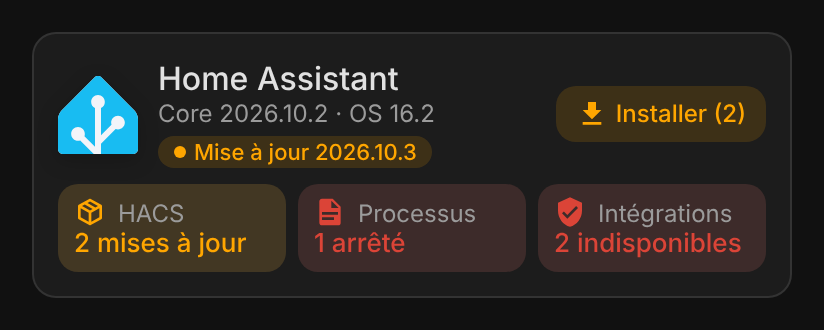
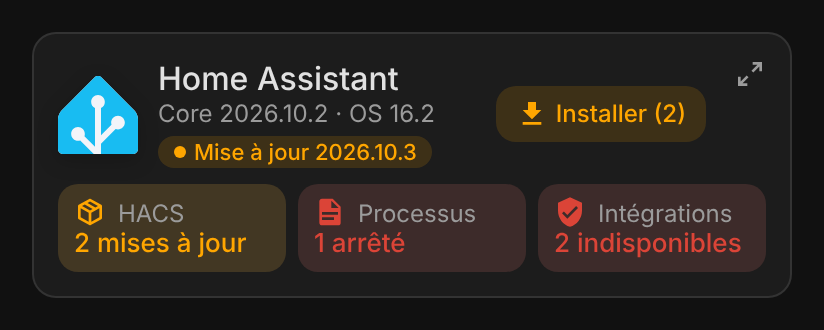
Status card: zoom button showing the full card (#23)
## Summary
- Status card: a small round button at the far right of the header
(`mdi:arrow-expand`, "Show the full card" / "Afficher la carte
complète") switches the card to the full System Monitor card content,
with the same config (gauges, uptime/load/IP, network, storage,
processes, HACS and integrations lists, status row). It becomes
`mdi:arrow-collapse` ("Back to the compact view" / "Revenir à la vue
compacte") to go back. The Home Assistant logo stays on the left.
- A click anywhere outside the card (document capture listener added in
`connectedCallback`, removed in `disconnectedCallback`) brings the
status view back; clicks inside the card, its confirmation overlay or a
dialog opened from it (`ha-more-info-dialog`, `ha-dialog`, `dialog`) do
not, and it never folds while the install confirmation is open.
- The button stops propagation; from the keyboard (`detail === 0`) the
new button gets the focus back.
- `SystemMonitorStatusCard` now extends `SystemMonitorCard`: the zoomed
view is the full card's own `_render()`, no duplicated markup (jscpd: 0
clones). `getCardSize` / `getGridOptions` follow the zoomed state.
- New `zoom` option (default `true`) in the visual editor with EN/FR
label and helper, not written to YAML at its default.
- README, CHANGELOG (1.15.0), version bump, tests, screenshots.

## Screenshots
| Status | Zoomed in (light) | Zoomed in (dark, French) |
|---|---|---|
|
[…]

Changed region(s): [[0.5765, 0.2121, 0.9405, 0.4545], [0.9102, 0.1818, 0.9405, 0.2121]]

diff --git a/src/system-monitor-card.js b/src/system-monitor-card.js
@@ -33,6 +33,9 @@ const ICONS = {
   download: "M5,20H19V18H5M19,9H15V3H9V9H5L12,16L19,9Z",
   watchdog: "M10,17L6,13L7.41,11.59L10,14.17L16.59,7.58L18,9M12,1L3,5V11C3,16.55 6.84,21.74 12,23C17.16,21.74 21,16.55 21,11V5L12,1Z",
   chevron: "M7.41,8.58L12,13.17L16.59,8.58L18,10L12,16L6,10L7.41,8.58Z",
+  // mdi:arrow-expand and mdi:arrow-collapse, for the status card's zoom button.
+  expand: "M10,21V19H6.41L10.91,14.5L9.5,13.09L5,17.59V14H3V21H10M14.5,10.91L19,6.41V10H21V3H14V5H17.59L13.09,9.5L14.5,10.91Z",
+  collapse: "M19.5,3.09L15,7.59V4H13V11H20V9H16.41L20.91,4.5L19.5,3.09M4,13V15H7.59L3.09,19.5L4.5,20.91L9,16.41V20H11V13H4Z",
   // Fallbacks per HACS category when no logo can be loaded.
   integration: "M22,13.5C22,15.26 20.7,16.72 19,16.96V20A2,2 0 0,1 17,22H13.2V21.7A2.7,2.7 0 0,0 10.5,19C9,19 7.8,20.21 7.8,21.7V22H4A2,2 0 0,1 2,20V16.2H2.3C3.79,16.2 5,15 5,13.5C5,12 3.79,10.8 2.3,10.8H2V7A2,2 0 0,1 4,5H7.04C7.28,3.3 8.74,2 10.5,2C12.26,2 13.72,3.3 13.96,5H17A2,2 0 0,1 19,7V10.04C20.7,10.28 22,11.74 22,13.5M17,15H18.5A1.5,1.5 0 0,0 20,13.5A1.5,1.5 0 0,0 18.5,12H17V7H12V5.5A1.5,1.5 0 0,0 10.5,4A1.5,1.5 0 0,0 9,5.5V7H4V9.12C5.76,9.8 7,11.5 7,13.5C7,15.5 5.75,17.2 4,17.88V20H6.12C6.8,18.25 8.5,17 10.5,17C12.5,17 14.2,18.25 14.88,20H17V15Z",
   plugin: "M19,5V7H15V5H19M9,5V11H5V5H9M19,13V19H15V13H19M9,17V19H5V17H9M21,3H13V9H21V3M11,3H3V13H11V3M21,11H13V21H21V11M11,15H3V21H11V15Z",
@@ -115,6 +118,8 @@ const STRINGS = {
     wd_last_reload_failed: "Last reload failed: {name} {t}",
     wd_last_check: "Checked {t}",
     wd_open: "Open the integration",
+    zoom_in: "Show the full card",
+    zoom_out: "Back to the compact view",
     // Editor
     title: "Title (optional, defaults to Home Assistant)",
     show_image: "Show Home Assistant logo",
@@ -124,6 +129,8 @@ const STRINGS = {
     show_processes: "Show processes",
     show_hacs: "Show HACS extensions",
     show_watchdog: "Show unavailable integrations (Integration Watchdog)",
+    zoom: "Zoom button",
+    zoom_helper: "Switches the status card to the full card and back",
     interface: "Network interface (optional, all by default)",
     language: "Language",
     lang_auto: "Automatic",
@@ -201,6 +208,8 @@ const STRINGS = {
     wd_last_reload_failed: "Échec du dernier rechargement : {name} {t}",
     wd_last_check: "Vérifié {t}",
     wd_open: "Ouvrir l'intégration",
+    zoom_in: "Afficher la carte complète",
+    zoom_out: "Revenir à la vue compacte",
     title: "Titre (facultatif, Home Assistant par défaut)",
     show_image: "Afficher le logo Home Assistant",
     show_system: "Afficher le système (CPU, RAM, disque, température)",
@@ -209,6 +218,8 @@ const STRINGS = {
     show_processes: "Afficher les processus",
     show_hacs: "Afficher les extensions HACS",
     show_watchdog: "Afficher les intégrations indisponibles (Integration Watchdog)",
+    zoom: "Bouton zoom",
+    zoom_helper: "Bascule la carte de statut en carte complète, et inversement",
     interface: "Interface réseau (facultatif, toutes par défaut)",
     language: "Langue",
     lang_auto: "Automatique",
@@ -697,6 +708,7 @@ class SystemMonitorBase extends HTMLElement {
         run();
         return;
       }
+      if (action?.dataset.action === "zoom") return this._zoomClick(ev);
       if (action) {
         if (action.dataset.action === "hacs") {
           this._hacsOpen = !this._hacsOpen;
@@ -1148,6 +1160,11 @@ const TILES_STYLE = `
   .spin { animation: sm-spin 1s linear infinite; }
   @keyframes sm-spin { to { transform: rotate(360deg); } }
   .err { font-size: 12px; color: var(--sm-crit); }
+  .zoom { all: unset; flex: none; align-self: flex-start; cursor: pointer; width: 24px; height: 24px; margin: -4px -4px 0 0; border-radius: 50%;
+          display: grid; place-items: center; color: var(--secondary-text-color); }
+  .zoom .icon { width: 16px; height: 16px; }
+  .zoom:hover { background: color-mix(in srgb, var(--secondary-text-color) 16%, transparent); color: var(--primary-text-color); }
+  .zoom:focus-visible { outline: 2px solid var(--sm-blue); outline-offset: 1px; }
 `;
 
 const FULL_STYLE = `
@@ -1686,29 +1703,78 @@ const STATUS_STYLE = `
   .err { padding: 0 12px 12px; }
 `;
 
+/** A click inside a dialog (more-info opened from the card, say) is not a click outside the card. */
+const inDialog = (ev) => ev.composedPath().some((n) => ["ha-more-info-dialog", "ha-dialog", "dialog"].includes(n.localName));
+
 /**
  * Minimal card: header (Core / OS versions and update), the overall status tiles and a single
  * button that checks HACS for updates, or installs them when some are pending.
+ * Its zoom button (top right, `zoom: false` removes it) switches it to the full card, with the same
+ * config, and back; a click anywhere outside the card brings it back too.
  */
-class SystemMonitorStatusCard extends SystemMonitorBase {
+class SystemMonitorStatusCard extends SystemMonitorCard {
   static getConfigElement() {
     return document.createElement("system-monitor-status-card-editor");
   }
 
-  static getStubConfig() {
-    return {};
+  constructor() {
+    super();
+    // A click outside the card (or a dialog opened from it) brings it back to the status view,
+    // never while the install confirmation is open.
+    this._onUnzoom = (ev) => {
+      if (this._zoomed && !this._dialog && !ev.composedPath().includes(this) && !inDialog(ev)) this._setZoom(false);
+    };
+  }
+
+  connectedCallback() {
+    // Before the base listener, which closes the confirmation on the same click.
+    document.addEventListener("click", this._onUnzoom, true);
+    super.connectedCallback();
+  }
+
+  disconnectedCallback() {
+    super.disconnectedCallback();
+    document.removeEventListener("click", this._onUnzoom, true);
   }
 
   getCardSize() {
-    return 2;
+    return this._zoomed ? super.getCardSize() : 2;
   }
 
   getGridOptions() {
-    return { columns: 6, min_columns: 6 };
+    return this._zoomed ? super.getGridOptions() : { columns: 6, min_columns: 6 };
+  }
+
+  /** Full card, or back to the status view (its sections folded again). */
+  _setZoom(zoomed) {
+    this._zoomed = zoomed;
+    if (!zoomed) {
+      this._hacsOpen = false;
+      this._hacsQuery = "";
+      this._wdOpen = false;
+      this._procsOpen = false;
+    }
+    this._update();
+  }
+
+  _zoomClick(ev) {
+    ev.stopPropagation(); // no other action of the header
+    this._setZoom(!this._zoomed);
+    // Keyboard use (Enter / Space: no click count) keeps the focus on the button that replaced this one.
+    if (ev.detail === 0) this.shadowRoot.querySelector(".zoom")?.focus();
+  }
+
+  /** The header of both views, with the zoom button at its far right. */
+  _header(sm, aside = "") {
+    if (this._config.zoom === false) return super._header(sm, aside);
+    const title = esc(this._t(this._zoomed ? "zoom_out" : "zoom_in"));
+    const button = `<button class="zoom" data-action="zoom" title="${title}" aria-label="${title}">${svgIcon(this._zoomed ? ICONS.collapse : ICONS.expand)}</button>`;
+    return super._header(sm, aside + button);
   }
 
   /** No sections to unfold here: tiles open the HACS or integrations page, or the first stopped process. */
   _statTarget(action) {
+    if (this._zoomed) return super._statTarget(action);
     if (action === "hacs") return `data-action="nav" data-path="/hacs/dashboard"`;
     if (action === "wd") return `data-action="nav" data-path="/config/integrations/dashboard"`;
     const sm = discover(this._hass);
@@ -1717,6 +1783,7 @@ class SystemMonitorStatusCard extends SystemMonitorBase {
 
   /** The status row shows up only while one of the statuses is not good. */
   _statusRow(sm) {
+    if (this._zoomed) return super._statusRow(sm);
     if (!this._stats(sm).some((x) => x.cls === "warn" || x.cls === "crit")) return "";
     return super._statusRow(sm);
   }
@@ -1757,6 +1824,7 @@ class SystemMonitorStatusCard extends SystemMonitorBase {
   }
 
   _render() {
+    if (this._zoomed) return super._render();
     const sm = discover(this._hass);
     if (!sm.found) return this._noSm();
     const rf = discoverRefresh(this._hass);
@@ -1789,6 +1857,11 @@ class SystemMonitorEditorBase extends HTMLElement {
     return true;
   }
 
+  /** Boolean options, all on by default. */
+  _booleans() {
+    return ["show_image", ...this.constructor.toggles];
+  }
+
   setConfig(config) {
     this._config = { ...config };
     this._render();
@@ -1811,8 +1884,7 @@ class SystemMonitorEditorBase extends HTMLElement {
         type: "grid",
         name: "",
         schema: [
-          { name: "show_image", selector: { boolean: {} } },
-          ...this.constructor.toggles.map((name) => ({ name, selector: { boolean: {} } })),
+          ...this._booleans().map((name) => ({ name, selector: { boolean: {} } })),
         ],
       },
       ...(this.constructor.withInterface
@@ -1844,12 +1916,17 @@ class SystemMonitorEditorBase extends HTMLElement {
     if (!this._form) {
       this._form = document.createElement("ha-form");
       this._form.computeLabel = (s) => t(this._hass, this._config, s.name);
+      this._form.computeHelper = (s) => {
+        const key = `${s.name}_helper`;
+        const text = t(this._hass, this._config, key);
+        return text === key ? undefined : text;
+      };
       this._form.addEventListener("value-changed", (ev) => {
         ev.stopPropagation();
         const config = { ...ev.detail.value };
         for (const [k, v] of Object.entries(config)) {
           // Keep the YAML minimal: drop empty values and toggles left at their default (true).
-          if (v === "" || v === undefined || v === null || (k.startsWith("show_") && v === true)) delete config[k];
+          if (v === "" || v === undefined || v === null || (this._booleans().includes(k) && v === true)) delete config[k];
         }
         this._config = config;
         this.dispatchEvent(new CustomEvent("config-changed", { detail: { config }, bubbles: true, composed: true }));
@@ -1857,7 +1934,7 @@ class SystemMonitorEditorBase extends HTMLElement {
       this.appendChild(this._form);
     }
     const data = { ...this._config };
-    for (const name of ["show_image", ...this.constructor.toggles]) if (data[name] === undefined) data[name] = true;
+    for (const name of this._booleans()) if (data[name] === undefined) data[name] = true;
     this._form.hass = this._hass;
     this._form.data = data;
     this._form.schema = this._schema();
@@ -1878,7 +1955,7 @@ class SystemMonitorMiniCardEditor extends SystemMonitorEditorBase {
 
 class SystemMonitorStatusCardEditor extends SystemMonitorEditorBase {
   static get toggles() {
-    return ["show_hacs", "show_processes", "show_watchdog"];
+    return ["show_hacs", "show_processes", "show_watchdog", "zoom"];
   }
 
   static get withInterface() {

diff --git a/README.md b/README.md
@@ -21,6 +21,7 @@ The cards are built on top of the core [System Monitor integration](https://www.
 ## Features
 
 - Three cards: a full **System Monitor Card**, a compact **System Monitor Mini Card** and a minimal **System Monitor Status Card** (versions, overall statuses and one HACS update button)
+- **Zoom** on the status card: a button at the top right switches it to the full System Monitor card (same options) and back; a click anywhere outside the card brings it back too
 - Automatic discovery of the System Monitor entities through the entity registry (any language)
 - CPU, RAM, disk and CPU temperature gauges, uptime, load average and IP address
 - Home Assistant Core and OS versions, with an orange badge when an update is available
@@ -133,6 +134,7 @@ show_image: true
 show_hacs: true
 show_processes: true
 show_watchdog: true
+zoom: true
 language: fr
 ```
 
@@ -148,6 +150,7 @@ language: fr
 | `show_processes` | full, status | `true` | Monitored processes and their status tile |
 | `show_hacs` | full, status | `true` | HACS extensions list (status card: update button) and their status tile |
 | `show_watchdog` | full, status | `true` | Unavailable integrations list and their status tile (needs Integration Watchdog) |
+| `zoom` | status | `true` | Zoom button at the top right: shows the full card, and back to the status view |
 | `interface` | full, mini | All physical interfaces | Network interface to display (e.g. `eth0`, `enp0s3`) |
 | `language` | all | Auto | Force language: `fr` or `en` (auto-detects from HA settings) |
 
@@ -158,6 +161,7 @@ language: fr
 | ![card](screenshots/card.png) | ![card dark](screenshots/card-dark.png) |
 | ![mini card](screenshots/mini-card.png) | ![mini card dark](screenshots/mini-card-dark.png) |
 | ![status card](screenshots/status-card.png) | ![status card dark](screenshots/status-card-dark.png) |
+| ![status card zoomed in](screenshots/status-card-zoom.png) | ![status card zoomed in dark](screenshots/status-card-zoom-dark.png) |
 | ![HACS extensions](screenshots/card-hacs.png) | ![Unavailable integrations](screenshots/card-watchdog.png) |
 | ![HACS search (French)](screenshots/card-hacs-search.png) | ![Install confirmation (French)](screenshots/card-install.png) |
 
@@ -179,6 +183,8 @@ The minimal card keeps the header (Core / OS versions and their update badge) an
 - **Check** otherwise, for every user as in the full card: checks every HACS repository for updates through [HACS Refresh](https://github.com/juju35/ha-hacs-refresh), with the progress in the button; hover it for the time of the last check. Without HACS Refresh and no pending update, the button is hidden
 
 A click on the **HACS** tile opens HACS, on the **Integrations** tile the integrations page, and on the **Processes** tile the first stopped process.
+
+At the far right of the header, a small round button (`mdi:arrow-expand`) shows the full card in its place: gauges, network, storage, processes, HACS and integrations lists, with the same options, exactly as the **System Monitor Card** shows them. The button turns into `mdi:arrow-collapse` and brings the status view back; a click anywhere outside the card does too, but not a click in a dialog opened from it (more-info), nor while the install confirmation is open. `zoom: false` removes the button.
 
 ### Processes
 

diff --git a/CHANGELOG.md b/CHANGELOG.md
@@ -1,5 +1,15 @@
 # Changelog
 
+## 1.15.0
+
+### Changes
+- Status card: a zoom button at the top right of the header switches it to the full System Monitor card (same options: gauges, network, storage, processes, HACS and integrations lists) and back. A click anywhere outside the card brings the status view back, except in a dialog opened from it or while the install confirmation is open. The new `zoom` option (on by default, in the visual editor) removes the button.
+
+![Status card zoomed in](https://raw.githubusercontent.com/juju35/ha-system-monitor-card/v1.15.0/screenshots/status-card-zoom.png)
+
+### Maintenance
+- Tests for the zoom (in, out, outside click, dialogs, install confirmation, `zoom: false`); screenshots of the zoomed-in status card.
+
 ## 1.14.1
 
 ### Fixes
